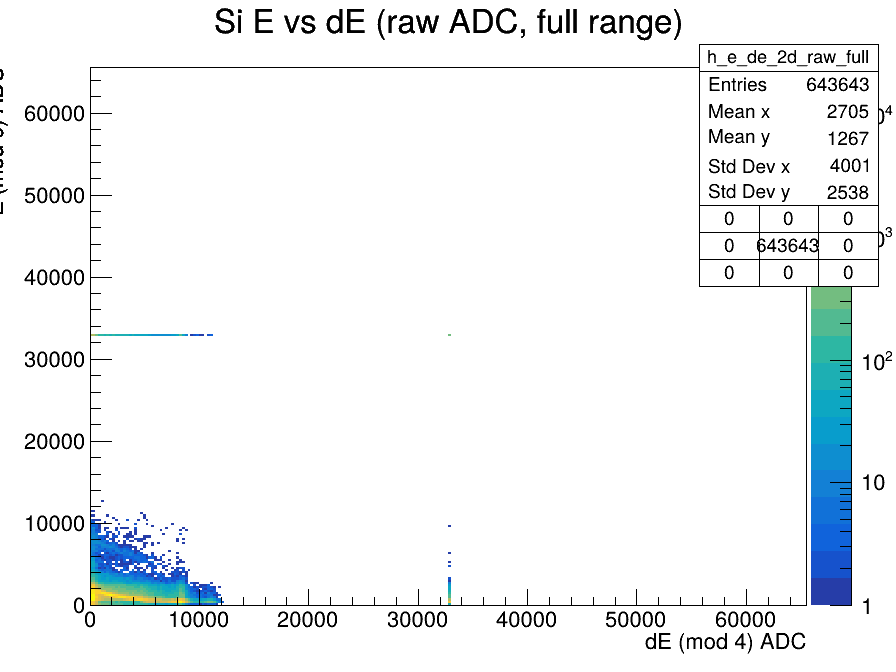
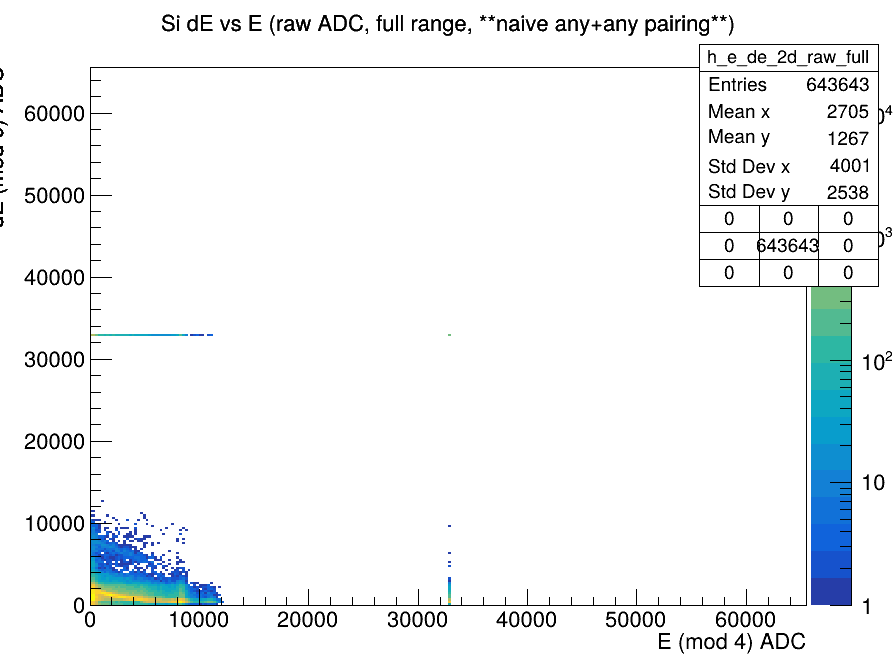
test(p91zr): fix axis convention + anti-diagonal sector pairing
Two corrections from the user's feedback after looking at the
ELIFANT-Event reference output:

1) **Axis convention swap.** The canonical ΔE-E PID plot puts
   E (total energy) on the X axis and dE (energy loss) on the Y axis.
   With that orientation the banana is immediately readable in the
   physics zoom; the previous Y=E / X=dE convention rotated the curve
   into a vertical stripe that I misread as either a noise blob or a
   per-channel artefact.

2) **Anti-diagonal sector pairing.** The p91Zr setup is **two
   telescopes** (Det A, Det B). Per the ELIFANT `ring_ring.cpp`
   variable naming:
       mod 0 = dE (Det A front sectors)
       mod 4 = E  (Det B front sectors)
   (the `chSettings.json` Tags use the opposite labels and are
   misleading). The geometric correspondence between the two
   telescopes is `mod0 ch X ↔ mod4 ch (15 − X)` — an anti-diagonal
   in the sector-vs-sector plot, confirming back-to-back 2-body
   kinematics. My earlier XOR-1 mapping was wrong.

With both fixes applied to `analyse_si_e_de.C` the same-sector
banana plot now shows a clean Bethe-Bloch curve, and the 8.1 MeV
"stripe" from the naive plot is correctly removed as a cross-sector
accidental.

Stats unchanged from the previous full run (8.43 B hits → 643 k
events kept by L2 → 71,759 anti-diagonal pairs, 11.15 % of the
L2-kept events).

README updated with the 2-telescope layout and the per-PNG legend.

Changed region(s): [[0.1875, 0.0, 0.8125, 0.0625], [0.7188, 0.9375, 0.9062, 0.9688]]

diff --git a/tools/p91zr_test/analyse_si_e_de.C b/tools/p91zr_test/analyse_si_e_de.C
@@ -145,9 +145,9 @@ void analyse_si_e_de(const char* output_dir = "eb_output",
   // ---- Histograms -----------------------------------------------------------
   TH1F* h_mult = new TH1F("h_mult", "Event multiplicity;hits / event;count",
                          32, -0.5, 31.5);
-  TH1F* h_e_adc = new TH1F("h_e_adc", "E_Sector raw ADC (mod=0);ADC;count",
+  TH1F* h_e_adc = new TH1F("h_e_adc", "E raw ADC (mod 4, det-B front);ADC;count",
                           4096, 0, 65536);
-  TH1F* h_de_adc = new TH1F("h_de_adc", "dE_Sector raw ADC (mod=4);ADC;count",
+  TH1F* h_de_adc = new TH1F("h_de_adc", "dE raw ADC (mod 0, det-A front);ADC;count",
                            4096, 0, 65536);
   TH1F* h_trigger_mod =
       new TH1F("h_trigger_mod", "Trigger module distribution;module;count",
@@ -158,33 +158,72 @@ void analyse_si_e_de(const char* output_dir = "eb_output",
                401, -200.5, 200.5);
 
   // Raw ADC: full range and zoomed to the physics region.
+  // Convention: X = E (total, mod 4), Y = dE (energy loss, mod 0).
   TH2F* h_e_de_2d_raw_full =
       new TH2F("h_e_de_2d_raw_full",
-               "Si E vs dE (raw ADC, full range);"
-               "dE (mod 4) ADC;E (mod 0) ADC",
+               "Si dE vs E (raw ADC, full range, **naive any+any pairing**);"
+               "E (mod 4) ADC;dE (mod 0) ADC",
                256, 0, 65536, 256, 0, 65536);
   TH2F* h_e_de_2d_raw =
       new TH2F("h_e_de_2d_raw",
-               "Si E vs dE (raw ADC, physics zoom);"
-               "dE (mod 4) ADC;E (mod 0) ADC",
-               400, 0, 10000, 300, 0, 6000);
+               "Si dE vs E (raw ADC, zoom, **naive any+any pairing**);"
+               "E (mod 4) ADC;dE (mod 0) ADC",
+               400, 0, 12000, 300, 0, 12000);
 
-  // Calibrated: axes chosen so the proton/alpha banana fits comfortably.
-  // The exact keV range depends on the per-channel polynomials; if needed
-  // the limits below are easy to widen.
   TH2F* h_e_de_2d_kev =
       new TH2F("h_e_de_2d_kev",
-               "Si E vs dE (calibrated);"
-               "dE [keV];E [keV]",
-               400, 0, 12000, 300, 0, 8000);
+               "Si dE vs E (calibrated, **naive any+any pairing**);"
+               "E [keV] (mod 4);dE [keV] (mod 0)",
+               400, 0, 12000, 300, 0, 12000);
+
+  // Kinematic-pair (anti-diagonal) mapping between the two telescope
+  // fronts. The user confirmed mod0_ch X ↔ mod4_ch (15 - X) by inspection
+  // of the histSectorSector image (a clean anti-diagonal band — the
+  // expected 2-body back-to-back kinematics for this layout). The
+  // ring_ring.cpp variable naming makes mod 0 the *dE* (det-A front)
+  // and mod 4 the *E* (det-B front); the chSettings.json tags use
+  // the opposite labels and should be ignored for physics.
+  auto partner_of_mod0 = [](int ch) -> int { return 15 - ch; };
+  auto partner_of_mod4 = [](int ch) -> int { return 15 - ch; };
+
+  TH2F* h_e_de_paired_kev =
+      new TH2F("h_e_de_paired_kev",
+               "Si dE vs E (calibrated, **anti-diagonal pairing**);"
+               "E [keV] (mod 4);dE [keV] (mod 0)",
+               400, 0, 12000, 300, 0, 12000);
+  TH2F* h_e_de_paired_raw =
+      new TH2F("h_e_de_paired_raw",
+               "Si dE vs E (raw ADC, **anti-diagonal pairing**);"
+               "E (mod 4) ADC;dE (mod 0) ADC",
+               400, 0, 12000, 300, 0, 12000);
+
+  // Per-channel diagnostics: dE_ch vs dE_ADC (mod 4) and E_ch vs E_ADC
+  // (mod 0). Helps identify whether the vertical stripe at dE ≈ 8.1 MeV
+  // comes from one specific channel firing at fixed amplitude.
+  TH2F* h_de_ch_vs_adc =
+      new TH2F("h_de_ch_vs_adc",
+               "Per-channel dE spectrum (mod 4);ch;ADC",
+               16, -0.5, 15.5, 400, 0, 10000);
+  TH2F* h_e_ch_vs_adc =
+      new TH2F("h_e_ch_vs_adc",
+               "Per-channel E spectrum (mod 0);ch;ADC",
+               16, -0.5, 15.5, 400, 0, 10000);
 
   // ---- Loop -----------------------------------------------------------------
   const Long64_t n_entries = ch.GetEntries();
   Long64_t coincident_pairs = 0;
+  Long64_t paired_sectors = 0;
   for (Long64_t i = 0; i < n_entries; ++i) {
     ch.GetEntry(i);
     h_mult->Fill(multiplicity);
     h_trigger_mod->Fill(trigger_mod);
+
+    // Per-channel first-hit arrays for the anti-diagonal pairing:
+    // index by raw ch (0..15), record ADC + ch.
+    std::array<int, 16> mod0_adc{};  // dE side (front, thin)
+    std::array<int, 16> mod4_adc{};  // E side (front, thick)
+    mod0_adc.fill(-1);
+    mod4_adc.fill(-1);
 
     int e_adc = -1, de_adc = -1;
     int e_mod = -1, e_ch = -1, de_mod = -1, de_ch = -1;
@@ -195,35 +234,66 @@ void analyse_si_e_de(const char* output_dir = "eb_output",
       auto rt = (*rel_time)[j];
       h_rel_time->Fill(rt);
       if (m == 0) {
-        h_e_adc->Fill(e);
-        if (e_adc < 0) {
-          e_adc = e;
-          e_mod = m;
-          e_ch = c;
-        }
-      } else if (m == 4) {
-        h_de_adc->Fill(e);
+        // mod 0 → dE detector (per ring_ring.cpp variable naming)
+        h_de_adc->Fill(e);  // <-- mod 0 is dE
+        h_de_ch_vs_adc->Fill(c, e);
         if (de_adc < 0) {
           de_adc = e;
           de_mod = m;
           de_ch = c;
         }
+        if (c < 16 && mod0_adc[c] < 0) {
+          mod0_adc[c] = e;
+        }
+      } else if (m == 4) {
+        // mod 4 → E detector (per ring_ring.cpp variable naming)
+        h_e_adc->Fill(e);  // <-- mod 4 is E
+        h_e_ch_vs_adc->Fill(c, e);
+        if (e_adc < 0) {
+          e_adc = e;
+          e_mod = m;
+          e_ch = c;
+        }
+        if (c < 16 && mod4_adc[c] < 0) {
+          mod4_adc[c] = e;
+        }
       }
     }
     if (e_adc >= 0 && de_adc >= 0) {
-      h_e_de_2d_raw->Fill(de_adc, e_adc);
-      h_e_de_2d_raw_full->Fill(de_adc, e_adc);
+      // Convention: X = E (mod 4), Y = dE (mod 0)
+      h_e_de_2d_raw->Fill(e_adc, de_adc);
+      h_e_de_2d_raw_full->Fill(e_adc, de_adc);
       double e_kev = cal_or_raw(calib, e_mod, e_ch, e_adc);
       double de_kev = cal_or_raw(calib, de_mod, de_ch, de_adc);
-      h_e_de_2d_kev->Fill(de_kev, e_kev);
+      h_e_de_2d_kev->Fill(e_kev, de_kev);
       coincident_pairs++;
     }
+
+    // Anti-diagonal pairing: for each ch X in mod 0, pair with ch (15-X)
+    // in mod 4. Both must have fired.
+    for (int x = 0; x < 16; ++x) {
+      int partner = partner_of_mod0(x);  // = 15 - x
+      if (mod0_adc[x] >= 0 && mod4_adc[partner] >= 0) {
+        int de = mod0_adc[x];
+        int e = mod4_adc[partner];
+        // Convention: X = E, Y = dE
+        h_e_de_paired_raw->Fill(e, de);
+        double de_kev = cal_or_raw(calib, 0, x, de);
+        double e_kev = cal_or_raw(calib, 4, partner, e);
+        h_e_de_paired_kev->Fill(e_kev, de_kev);
+        paired_sectors++;
+      }
+    }
+    // Silence "unused" warning when partner_of_mod4 is not used directly.
+    (void)partner_of_mod4;
   }
 
   std::cout << "\n=== Summary ===\n";
-  std::cout << "Total events:     " << n_entries << "\n";
-  std::cout << "E + dE pairs:     " << coincident_pairs << " ("
+  std::cout << "Total events:           " << n_entries << "\n";
+  std::cout << "E + dE pairs (naive):   " << coincident_pairs << " ("
             << 100.0 * coincident_pairs / n_entries << "%)\n";
+  std::cout << "Same-sector pairs:      " << paired_sectors << " ("
+            << 100.0 * paired_sectors / n_entries << "%)\n";
   std::cout << "Trigger-mod distribution:\n";
   for (int b = 1; b <= h_trigger_mod->GetNbinsX(); ++b) {
     if (h_trigger_mod->GetBinContent(b) > 0) {
@@ -240,6 +310,10 @@ void analyse_si_e_de(const char* output_dir = "eb_output",
   h_e_de_2d_raw->Write();
   h_e_de_2d_raw_full->Write();
   h_e_de_2d_kev->Write();
+  h_e_de_paired_raw->Write();
+  h_e_de_paired_kev->Write();
+  h_de_ch_vs_adc->Write();
+  h_e_ch_vs_adc->Write();
   h_trigger_mod->Write();
   h_rel_time->Write();
   fout.Close();
@@ -257,4 +331,8 @@ void analyse_si_e_de(const char* output_dir = "eb_output",
   save_png(h_e_de_2d_raw, "raw");
   save_png(h_e_de_2d_raw_full, "raw_full");
   save_png(h_e_de_2d_kev, "kev");
+  save_png(h_e_de_paired_raw, "paired_raw");
+  save_png(h_e_de_paired_kev, "paired_kev");
+  save_png(h_de_ch_vs_adc, "de_per_channel");
+  save_png(h_e_ch_vs_adc, "e_per_channel");
 }

diff --git a/tools/p91zr_test/README.md b/tools/p91zr_test/README.md
@@ -67,26 +67,47 @@ End-to-end smoke test of the delila-rs EB on the ELIFANT2025 p91Zr data set.
 
 L1 → L2 ratio ≈ 0.031 % (driven by `Si_Both = E_Sector AND dE_Sector`).
 
+### Setup (per the user, 2026-05-20)
+
+- **2 telescope** configuration (Det A, Det B).
+- **mod 0 = dE (Det A front sectors), mod 4 = E (Det B front sectors)** —
+  follow the `ring_ring.cpp` variable naming, not the `chSettings.json`
+  tags (which use the opposite labels and are misleading).
+- **Geometric correspondence: mod0 ch X ↔ mod4 ch (15 − X)**
+  (an anti-diagonal in the sector-vs-sector plot, confirming back-to-back
+  2-body kinematics). The naive "any mod 0 + any mod 4" pairing also
+  produces cross-sector accidentals, so the anti-diagonal cut is needed
+  to clean up the PID banana.
+
 ### Output PNGs
 
-The macro emits three views of the Si E vs dE 2D:
+Convention throughout: **X = E (mod 4), Y = dE (mod 0)** — the canonical
+ΔE-E PID orientation. The macro now emits:
 
 | file | content |
 |---|---|
-| `si_e_de_raw.png`      | raw ADC, **zoomed to the physics region** (0..10 k × 0..6 k). The two clear bananas (heavy / light charged particles) live here. |
-| `si_e_de_raw_full.png` | raw ADC, full 0..65 k × 0..65 k. The physics is squashed into the bottom-left corner; horizontal/vertical stripes at ADC ≈ 32 768 are channels saturating their 15-bit ADC. |
-| `si_e_de_kev.png`      | calibrated using `chSettings.p0..p3`. Same shape as raw, axis label keV. |
+| `si_e_de_kev.png`        | naive any+any pairing, calibrated keV. Two bananas visible, with a vertical stripe at E ≈ 8 MeV that is a cross-sector accidental (the 8.1 MeV peak in one mod 4 channel paired with random mod 0 hits). |
+| `si_e_de_raw.png`        | same as above, raw ADC, zoomed. |
+| `si_e_de_raw_full.png`   | full 0..65 k × 0..65 k. Saturation stripes at ADC ≈ 32 768 visible. |
+| `si_e_de_paired_kev.png` | **anti-diagonal pairing** (mod0_X ↔ mod4_(15−X)), calibrated keV. Clean Bethe-Bloch banana. The 8 MeV stripe is gone. |
+| `si_e_de_paired_raw.png` | anti-diagonal pairing, raw ADC. |
+| `si_e_de_de_per_channel.png` | mod 4 dE spectrum vs ch. Shows the 8.2 MeV peak lives on multiple channels (mostly odd ch → even sectors after `GetSector`). |
+| `si_e_de_e_per_channel.png`  | mod 0 dE spectrum vs ch. |
 
 ## Known limitations / next iteration
 
 1. **L2 lacks positional correlation** — current `Si_Both` only requires
-   *any* mod 0 hit + *any* mod 4 hit. Real ΔE-E coincidence wants matching
-   sectors. Either extend L2 with a "same-channel" op, or filter at the
-   analysis stage.
+   *any* mod 0 hit + *any* mod 4 hit. Real ΔE-E coincidence wants the
+   anti-diagonal (mod0_X ↔ mod4_(15−X)) pairing. The analysis macro
+   already filters this way; could be pushed into a new L2 op so the
+   filter happens in the EB pipeline itself.
 2. **No L1 energy gate** — noise hits in both layers pass within 100 ns
    accidentally, inflating the low-energy population in the 2D plot.
    Add `{"type": "energy_gate", ...}` op around each trigger channel.
-3. **Raw ADC** in the macro — `chSettings.p0..p3` calibration not yet
-   applied at the analysis stage.
-4. **No timeSettings.json** — every channel runs with offset = 0. Run
-   `event_builder time-calib` to produce one and re-run the EB.
+3. **No timeSettings.json** — every channel runs with offset = 0. Run
+   `event_builder time-calib` to produce one and re-run the EB for the
+   strictest coincidence check.
+4. **Multiplicity ≥ 2 not filtered** — events where multiple sectors
+   fire produce multiple anti-diagonal pairs per event. `ring_ring.cpp`
+   uses `dECounter == 1 || eCounter == 1` to suppress this; could be
+   replicated in the macro for the cleanest banana.